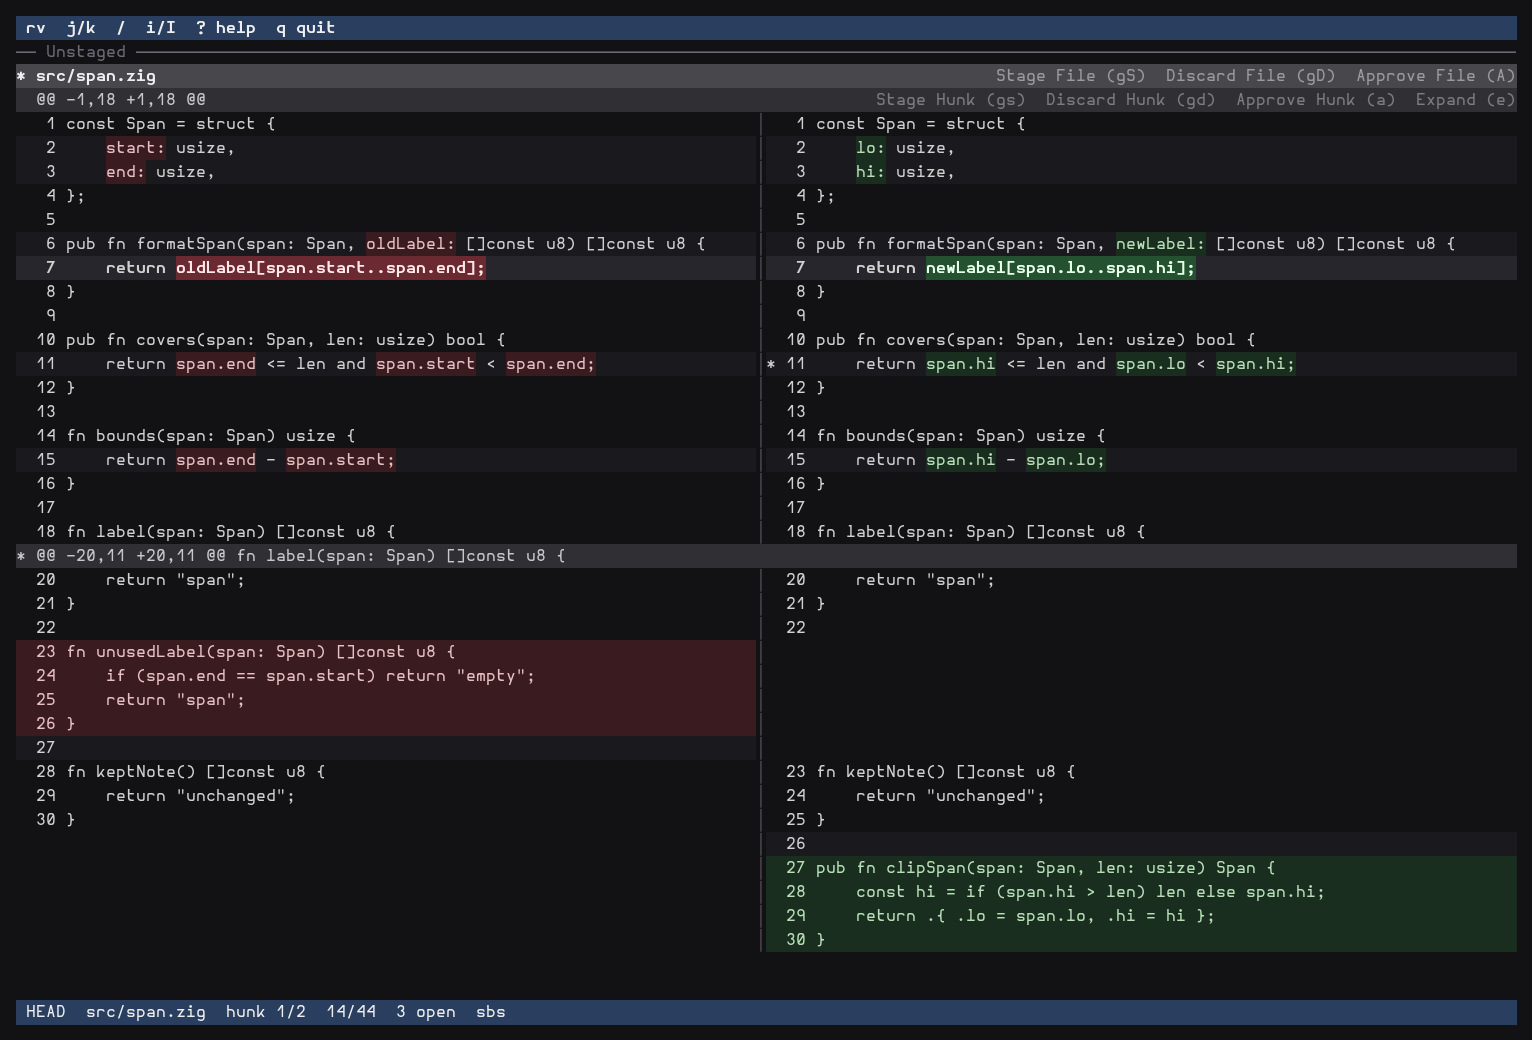
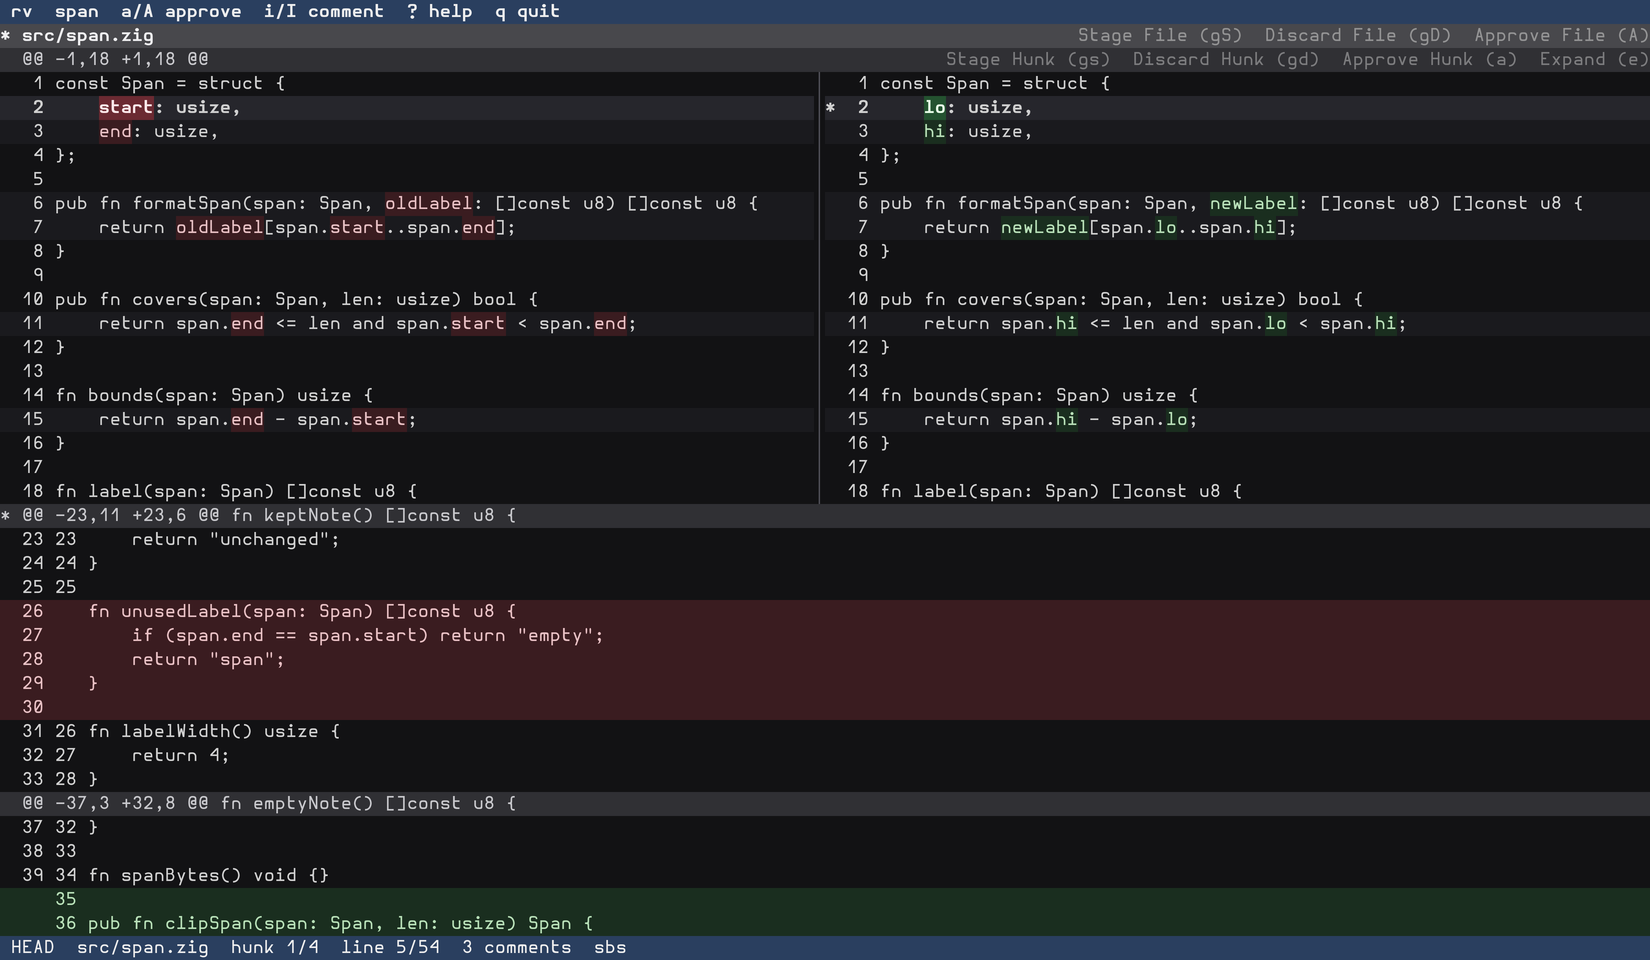
Color input prompts orange and refresh the README.
Comment, search, and add-path share one orange bar. The screenshots follow the current title, footer, and lists, and Usage covers the keys and commands that were missing.

diff --git a/README.md b/README.md
@@ -65,29 +65,47 @@ Changed words are colored on the line. Unchanged words on that line stay grey. A
 
 ![Side-by-side diff. Changed words are colored; whole added and deleted lines stay solid.](docs/screenshots/review.png)
 
-### Writing a comment
-
-`i` opens the comment box under the diff. The box grows as the comment wraps.
-
-![Comment box open with a comment that wraps across several lines.](docs/screenshots/comment.png)
-
 ### Unified diff
 
 `t` shows the same review as a unified diff.
 
 ![Unified diff of the same review.](docs/screenshots/unified.png)
 
+### Writing a comment
+
+`i` opens the comment box under the diff. The box grows as the comment wraps.
+
+![Comment box open with a comment that wraps across two lines.](docs/screenshots/comment.png)
+
 ### Comment list
 
-`Space` then `c` lists open comments.
+`Space` then `c` lists open comments. Enter jumps to that comment.
 
 ![Comment list over the diff.](docs/screenshots/comments.png)
 
 ### Approved list
 
-`Space` then `a` lists approved hunks. Approving stages a hunk and hides it from the diff.
+`Space` then `a` lists approved hunks. Approving stages a hunk and hides it from the diff. Enter puts that hunk back on the diff and leaves it staged.
 
 ![Approved list. Those hunks are staged and hidden from the diff.](docs/screenshots/approved.png)
+
+### Search
+
+`/` searches the diff. Enter jumps to the match.
+
+![Search prompt under the diff.](docs/screenshots/search.png)
+
+### File list
+
+`Space` then `f` lists the files in this review.
+
+![File list over the diff.](docs/screenshots/files.png)
+
+### Project list
+
+`Space` then `p` switches among saved work trees.
+
+![Project list over the diff.](docs/screenshots/projects.png)
 
 ## Use
 
@@ -95,9 +113,15 @@ Changed words are colored on the line. Unchanged words on that line stay grey. A
 rv                 # local changes (staged, unstaged, untracked)
 ```
 
-`j` and `k` move the current line. A click jumps to that line. The scroll wheel moves the window and leaves that line selected. Shift+wheel, or a sideways trackpad scroll, pans the hunk under the pointer. `a` approves the hunk at that line and `A` approves the whole file. Approving stages the change and hides it from the diff. `i` or `Enter` comments on the current line. Press `?` for every key, and `q` to quit.
+`j` and `k` move the current line. `gg` and `ge` jump to the first and last row. A click jumps to that line. The scroll wheel moves the window and leaves that line selected. `h` and `l`, Shift+wheel, or a sideways trackpad scroll, pan the hunk. `e` grows the hunk's context.
 
-`Space` then `p` switches among saved work trees. Bare `rv` starts from any directory and restores that list. `rv path` opens that work tree and adds it to the list. Tab in the add prompt cycles matching directories. Type `/` and Tab again to go into the one on the line.
+`a` approves the hunk at that line and `A` approves the whole file. Approving stages the change and hides it from the diff. `gs`, `gu`, and `gd` stage, unstage, and discard the hunk. `gS`, `gU`, and `gD` do the same for the file.
+
+`i`, `c`, or Enter comments on the new side of the current line. `I` and `C` comment on the old side. `d` and `D` dismiss that comment. `/` searches the diff, and `n` and `N` move through the matches.
+
+`Space` then `f` lists files, `c` lists open comments, `a` lists approved hunks, and `p` switches among saved work trees. Bare `rv` starts from any directory and restores that list. `rv path` opens that work tree and adds it to the list. Tab in the add prompt cycles matching directories. Type `/` and Tab again to go into the one on the line.
+
+Press `?` for every key, and `q` to quit.
 
 Tell your agent to address your rv comments. The skill from the install step reads those comments, edits the code, and resolves each comment it has handled. What you approved stays staged and stays out of the next diff.
 
@@ -110,9 +134,12 @@ rv ~/src/other     # open that work tree and remember it
 ```
 
 ```sh
+rv status          # comment count, approved count, and store paths
 rv list            # open comments
-rv export          # those comments as markdown
-rv resolve <id>    # drop an addressed comment
+rv show <id>       # one comment
+rv export          # those comments as markdown on stdout
+rv export --format json -o review.json
+rv resolve <id> [id…]
 rv approved        # hidden hunks and files
 rv unapprove <n>
 ```
